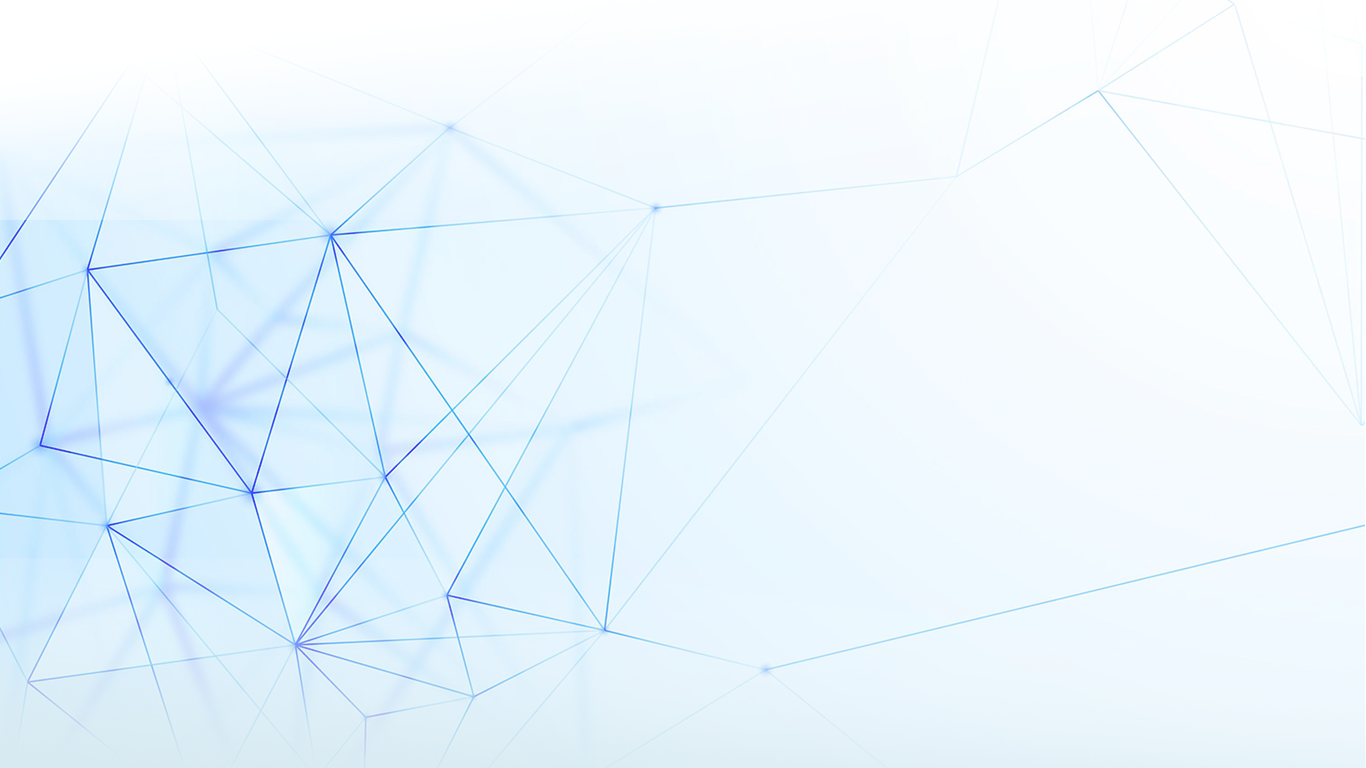
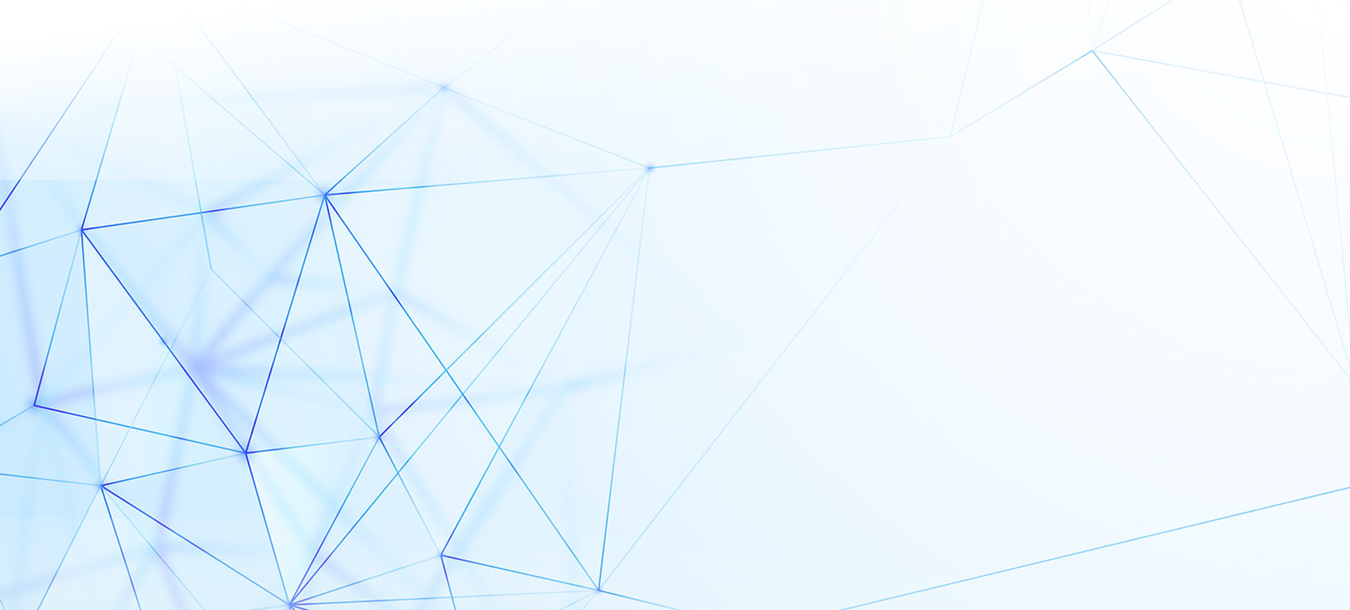
Map riht section

diff --git a/src/Components/Maps/Map.css b/src/Components/Maps/Map.css
@@ -2,6 +2,7 @@
     width: 100%;
     padding-bottom: 56.25%; /* 16:9 aspect ratio */
     margin: auto auto;
+    margin-left: 4vh;
     position: relative;
   }
   
@@ -21,7 +22,6 @@ svg {
     background:url("../../Img/Ethiopia_background.png") ;
     background-repeat: no-repeat;
     background-size: cover;
-    
     scroll-snap-align: start; 
 }
 
@@ -31,8 +31,10 @@ svg {
     text-align: left;
     float: left;
     display: grid;
-    grid-template-rows: auto auto;
-    max-height: 100vh;
+    margin: auto auto;
+    grid-template-rows: 0.5fr 3fr 0.5fr;
+    height: 60vh;
+    width: 100%;
 }
 .mapClicked{
     height: 100%;

diff --git a/src/Components/Card/Cards.js b/src/Components/Card/Cards.js
@@ -50,7 +50,7 @@ function Cards(props) {
 
   return (
       <div className='cardContainerSpace'>
-          <h1 className='cardSectionTitle' style={{fontSize:"5vh", fontWeight:"750",color:" #fff",textAlign:"left"}}>
+          <h1 className='cardSectionTitle' style={{fontSize:"5vh", fontWeight:"750",color:" #00859B",textAlign:"left"}}>
               Organizations
           </h1>
           <div className='searchSortContainer'>

diff --git a/src/Components/Maps/Map.js b/src/Components/Maps/Map.js
@@ -49,8 +49,8 @@ const Map = () => {
           stroke-width=".5"
           version="1.2"
           viewBox="0 0 1000 774"
-          width="90%"
-          height="90%"
+          width="100%"
+          height="100%"
           xmlns="http://www.w3.org/2000/svg">
 
           <g id="features">
